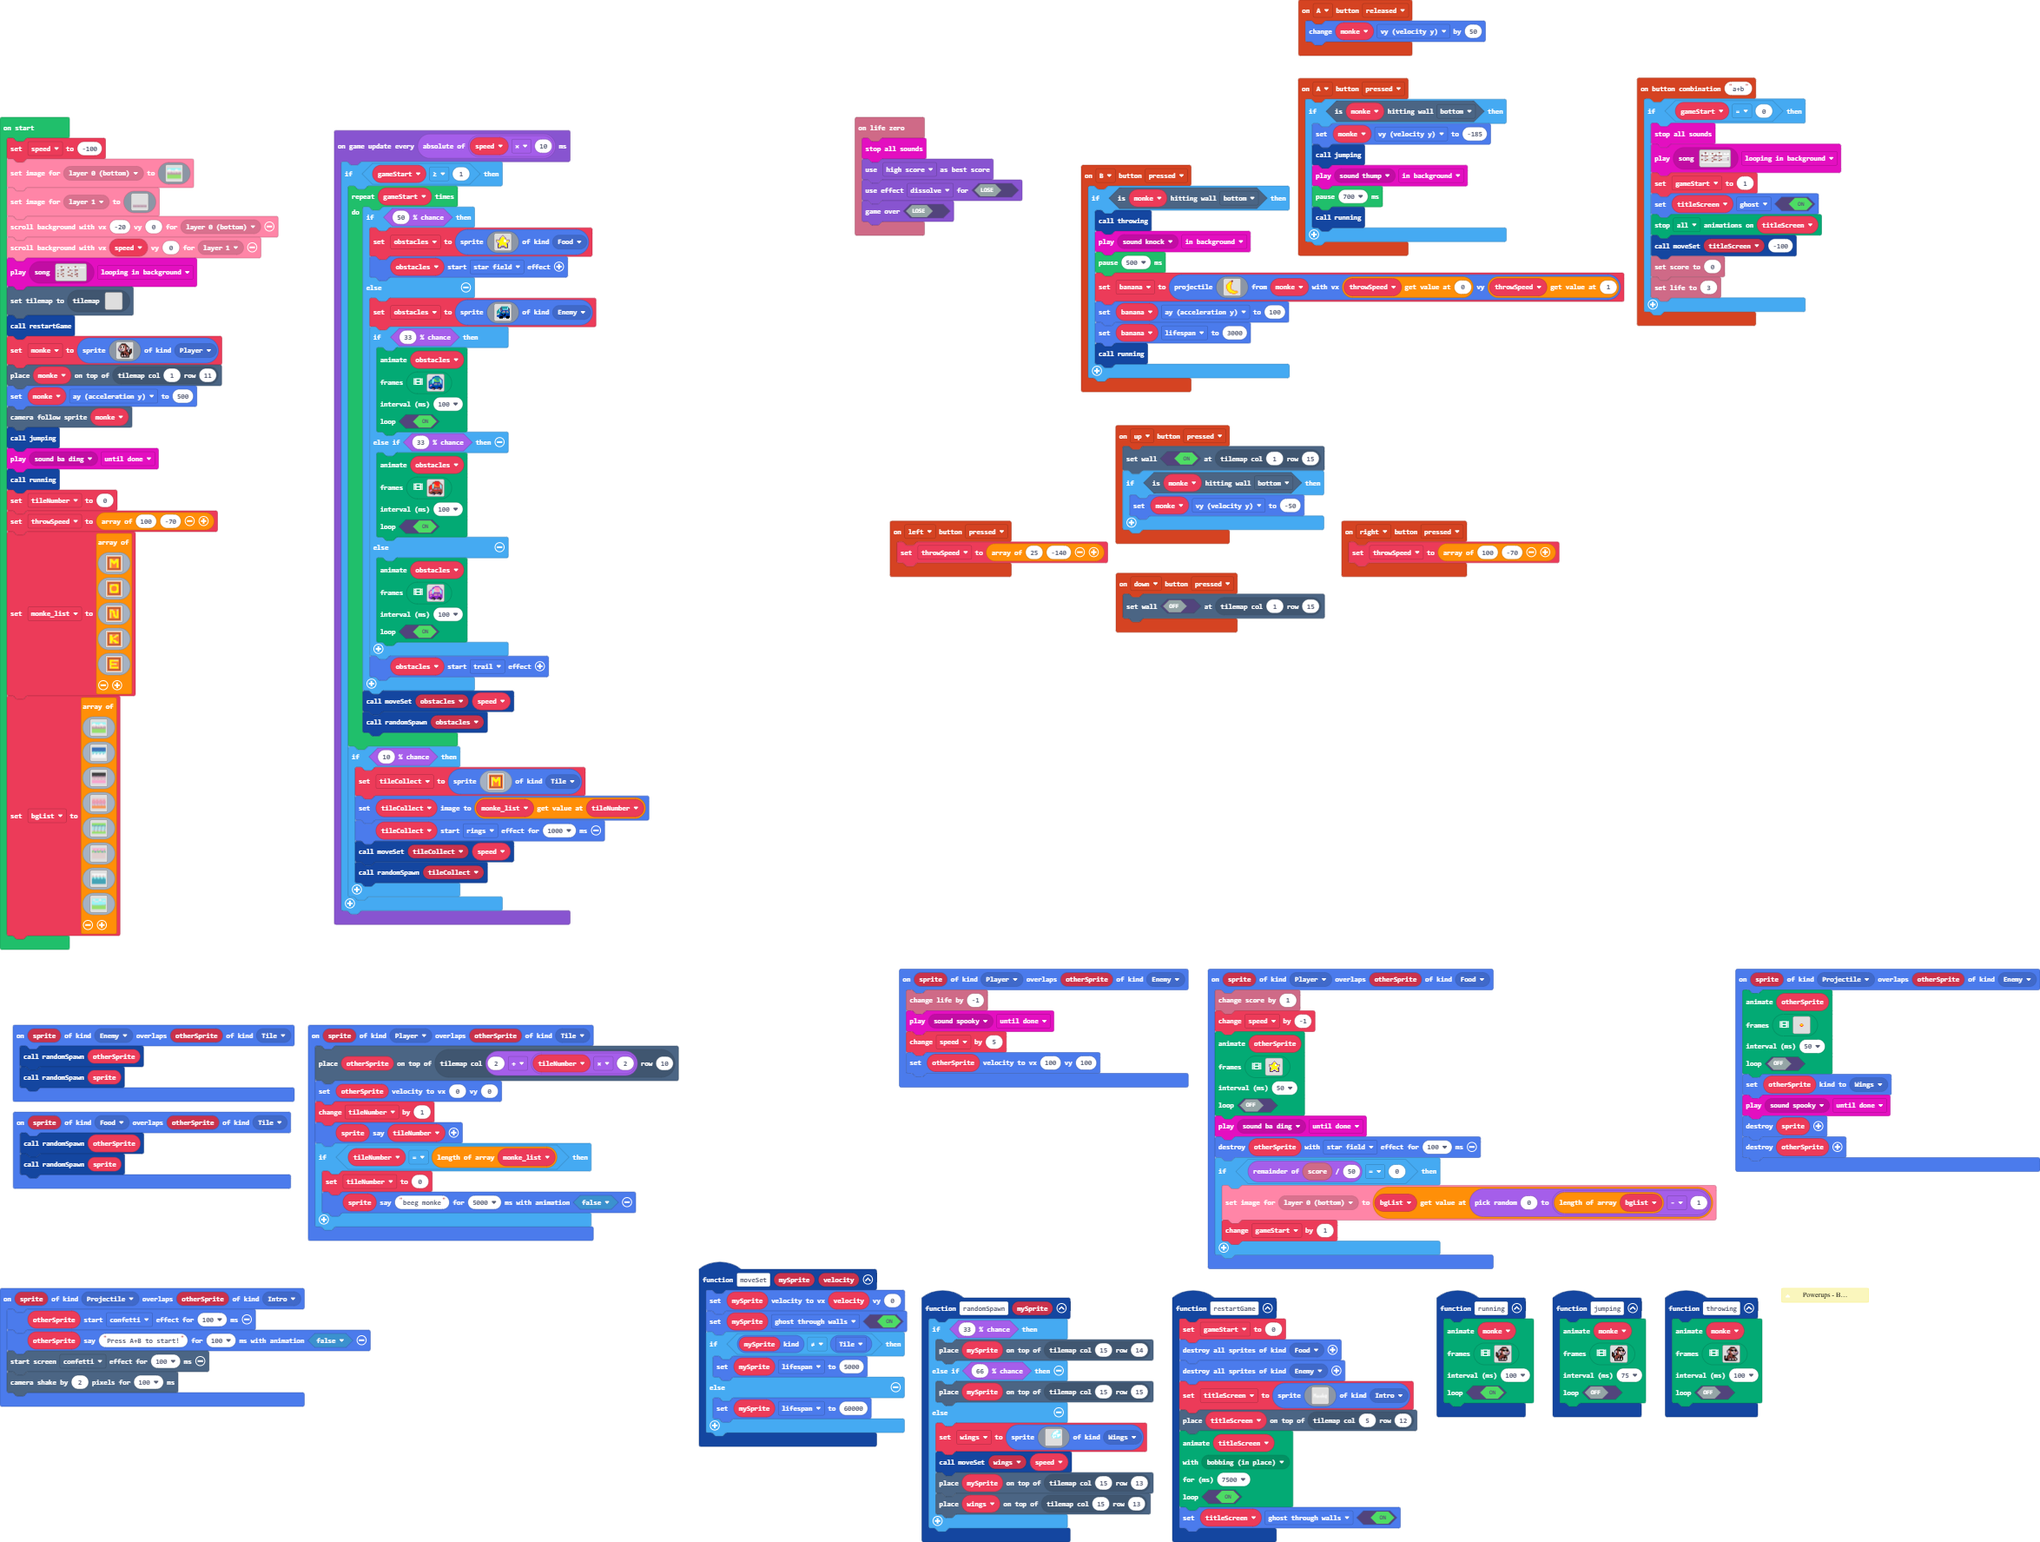
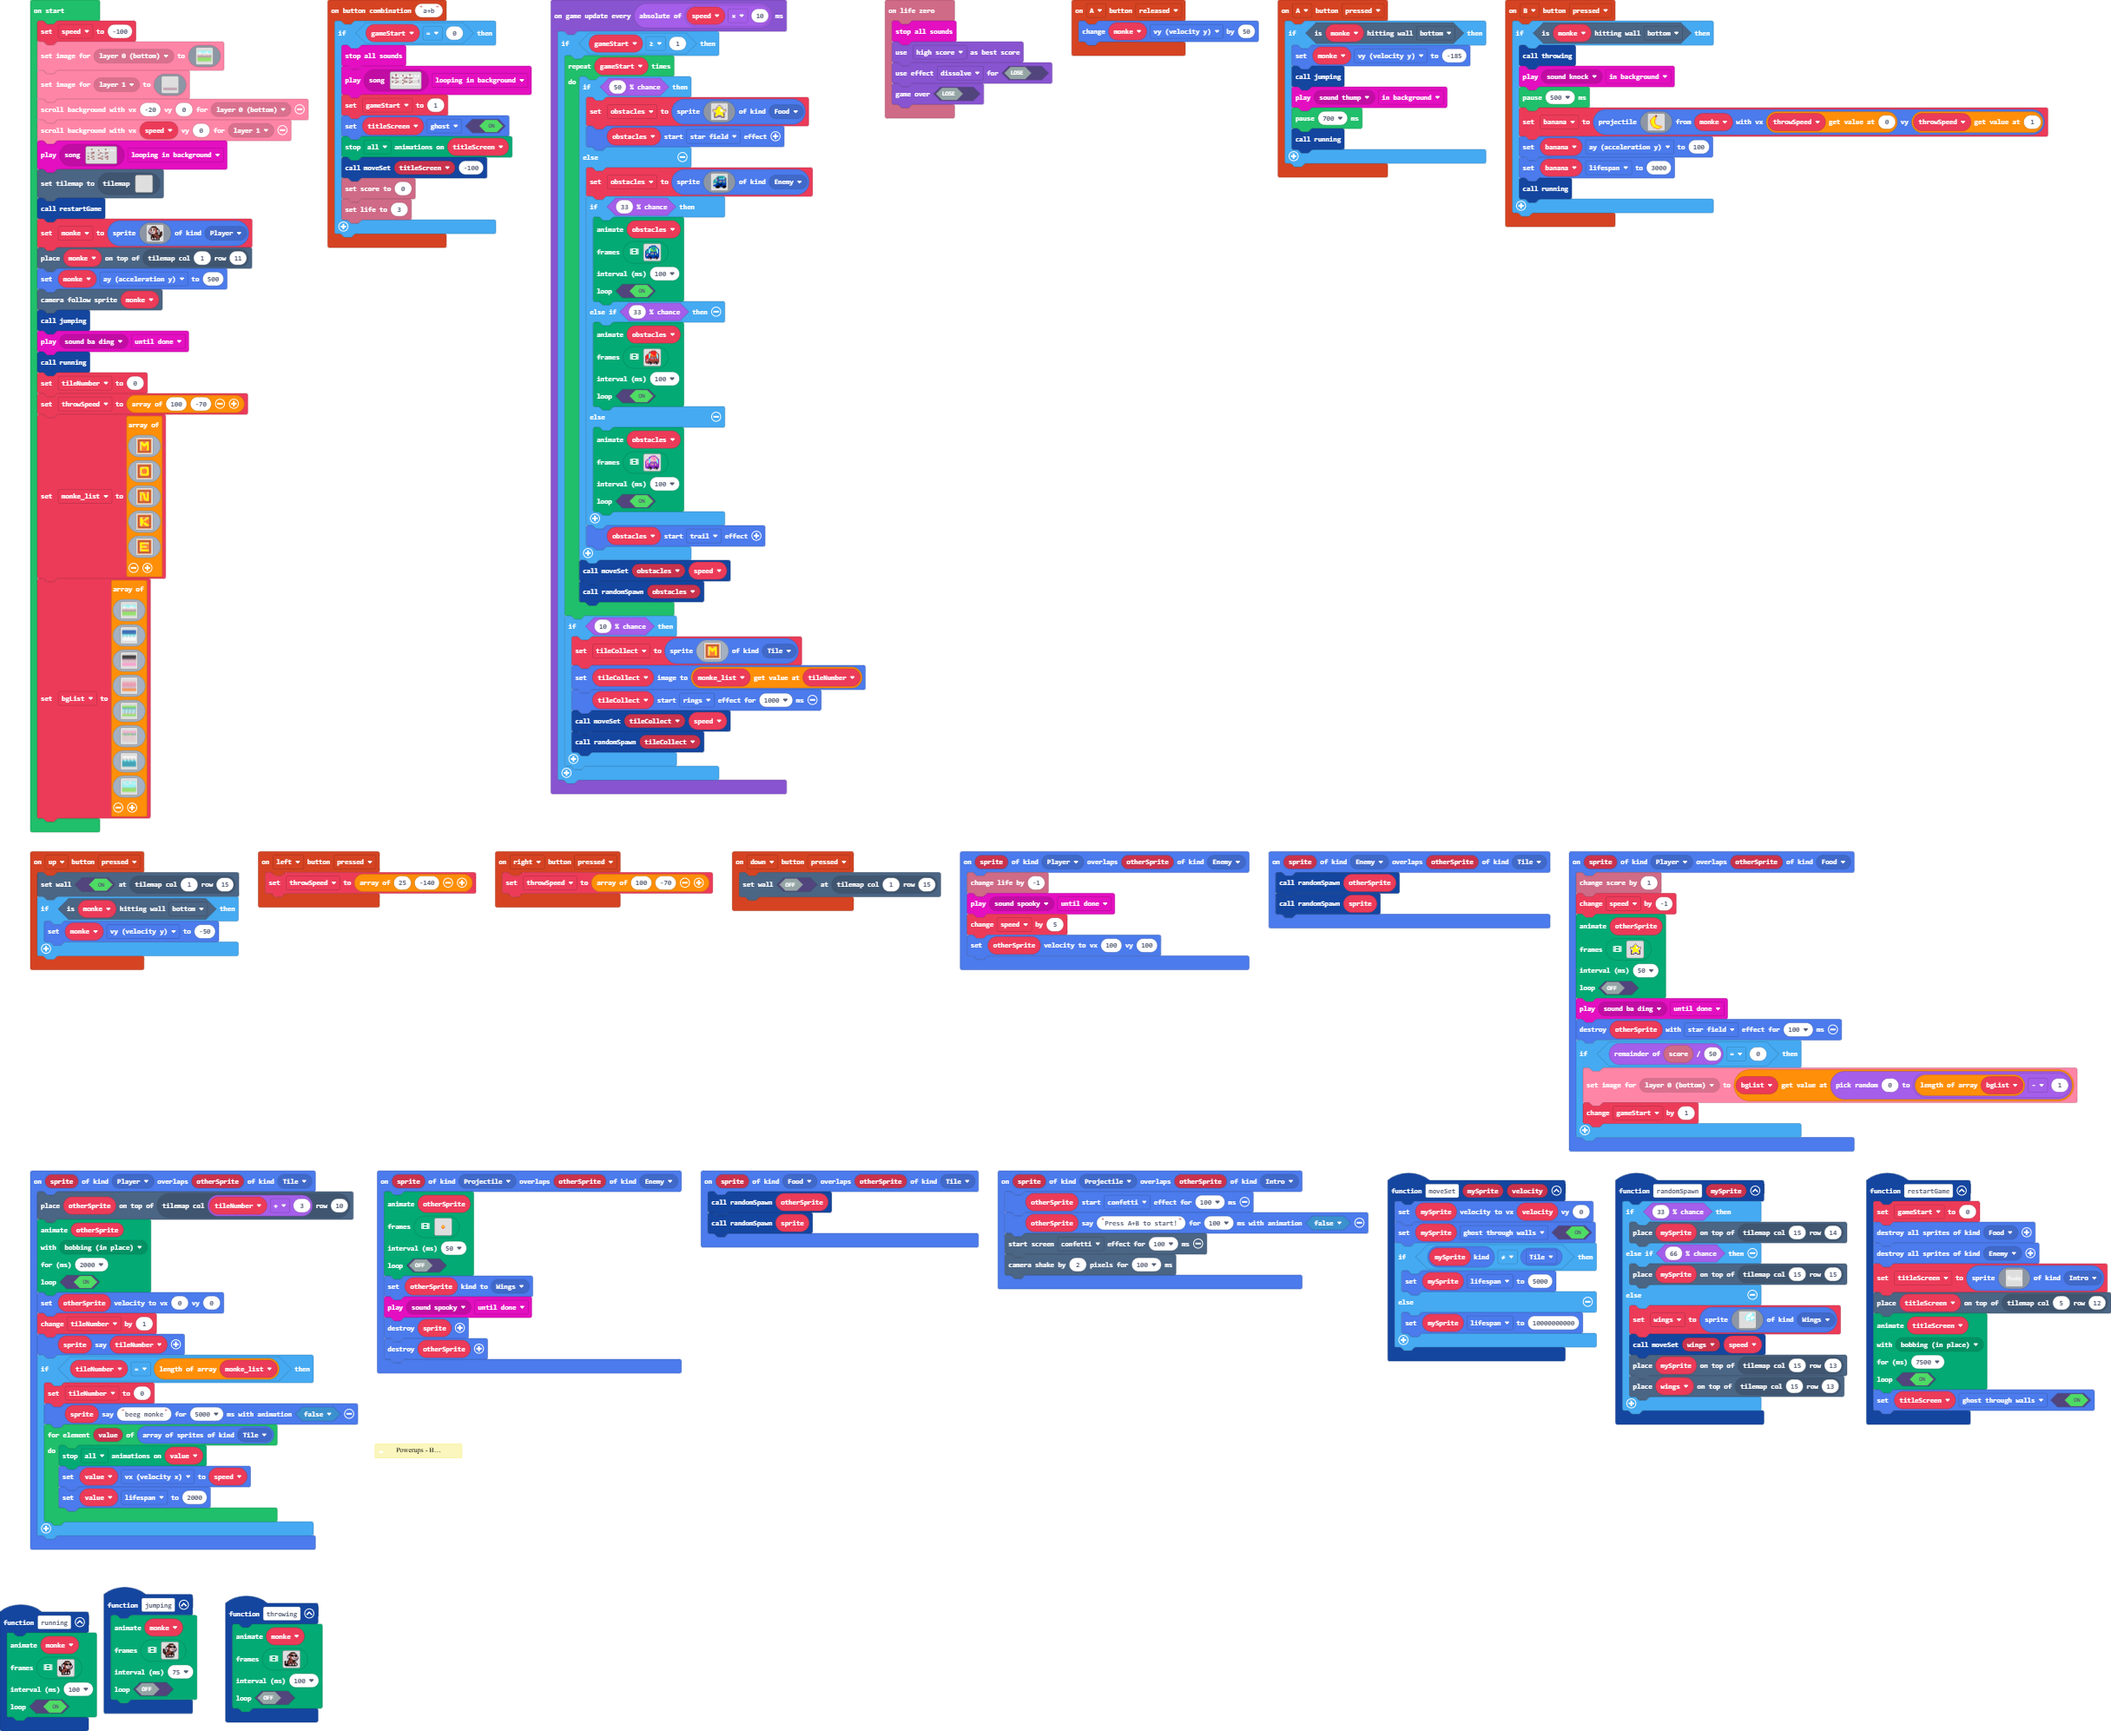
animations

diff --git a/main.ts b/main.ts
@@ -353,7 +353,7 @@ function moveSet (mySprite: Sprite, velocity: number) {
     if (mySprite.kind() != SpriteKind.Tile) {
         mySprite.lifespan = 5000
     } else {
-        mySprite.lifespan = 60000
+        mySprite.lifespan = 10000000000
     }
 }
 sprites.onOverlap(SpriteKind.Food, SpriteKind.Tile, function (sprite, otherSprite) {
@@ -641,13 +641,24 @@ sprites.onOverlap(SpriteKind.Player, SpriteKind.Food, function (sprite, otherSpr
     }
 })
 sprites.onOverlap(SpriteKind.Player, SpriteKind.Tile, function (sprite, otherSprite) {
-    tiles.placeOnTile(otherSprite, tiles.getTileLocation(2 + tileNumber * 2, 10))
+    tiles.placeOnTile(otherSprite, tiles.getTileLocation(tileNumber + 3, 10))
+    animation.runMovementAnimation(
+    otherSprite,
+    animation.animationPresets(animation.bobbing),
+    2000,
+    true
+    )
     otherSprite.setVelocity(0, 0)
     tileNumber += 1
     sprite.sayText(tileNumber)
     if (tileNumber == monke_list.length) {
         tileNumber = 0
         sprite.sayText("beeg monke", 5000, false)
+        for (let value of sprites.allOfKind(SpriteKind.Tile)) {
+            animation.stopAnimation(animation.AnimationTypes.All, value)
+            value.vx = speed
+            value.lifespan = 2000
+        }
     }
 })
 function randomSpawn (mySprite: Sprite) {
